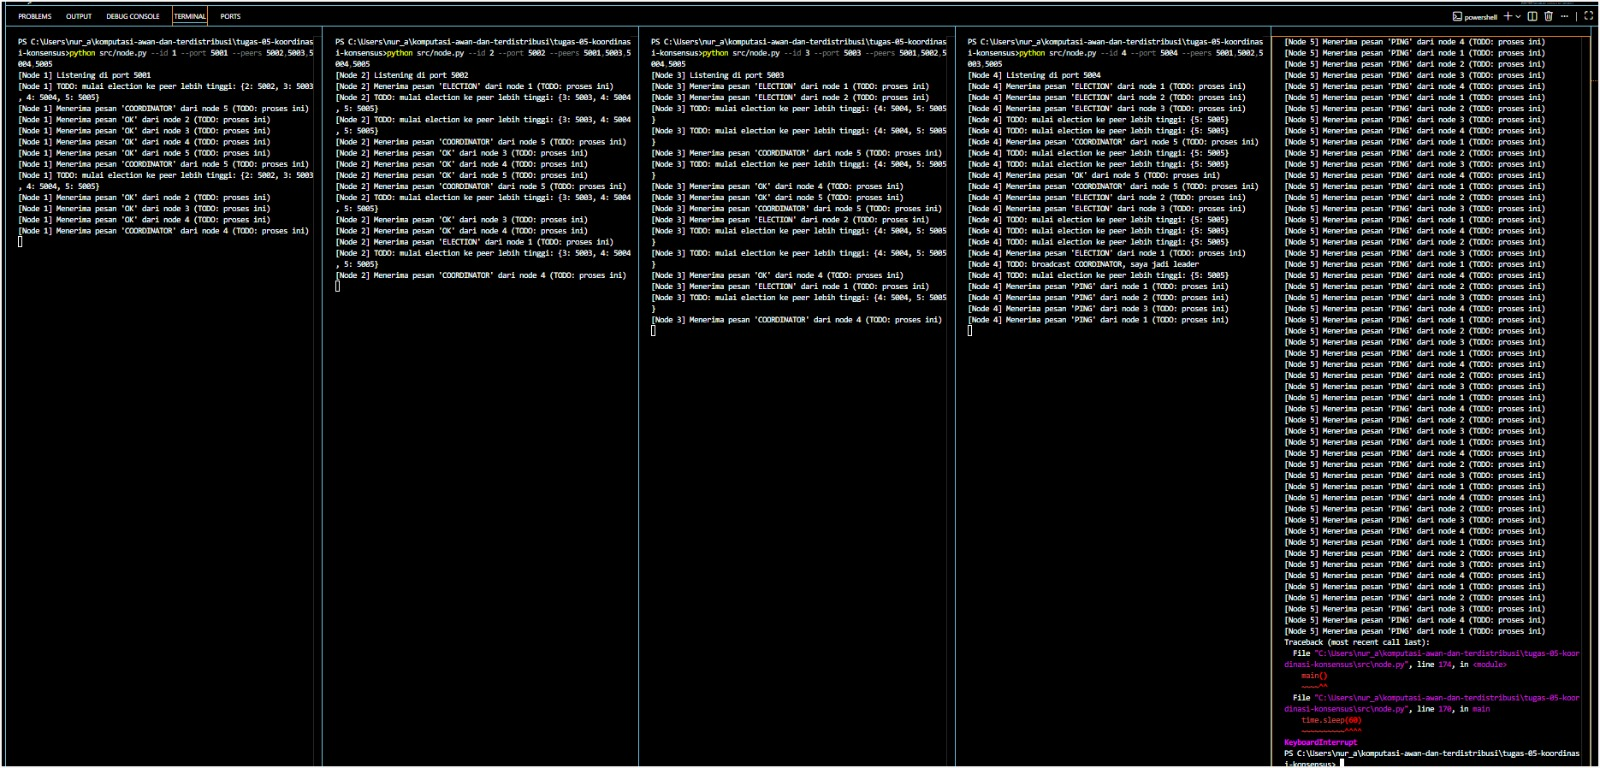
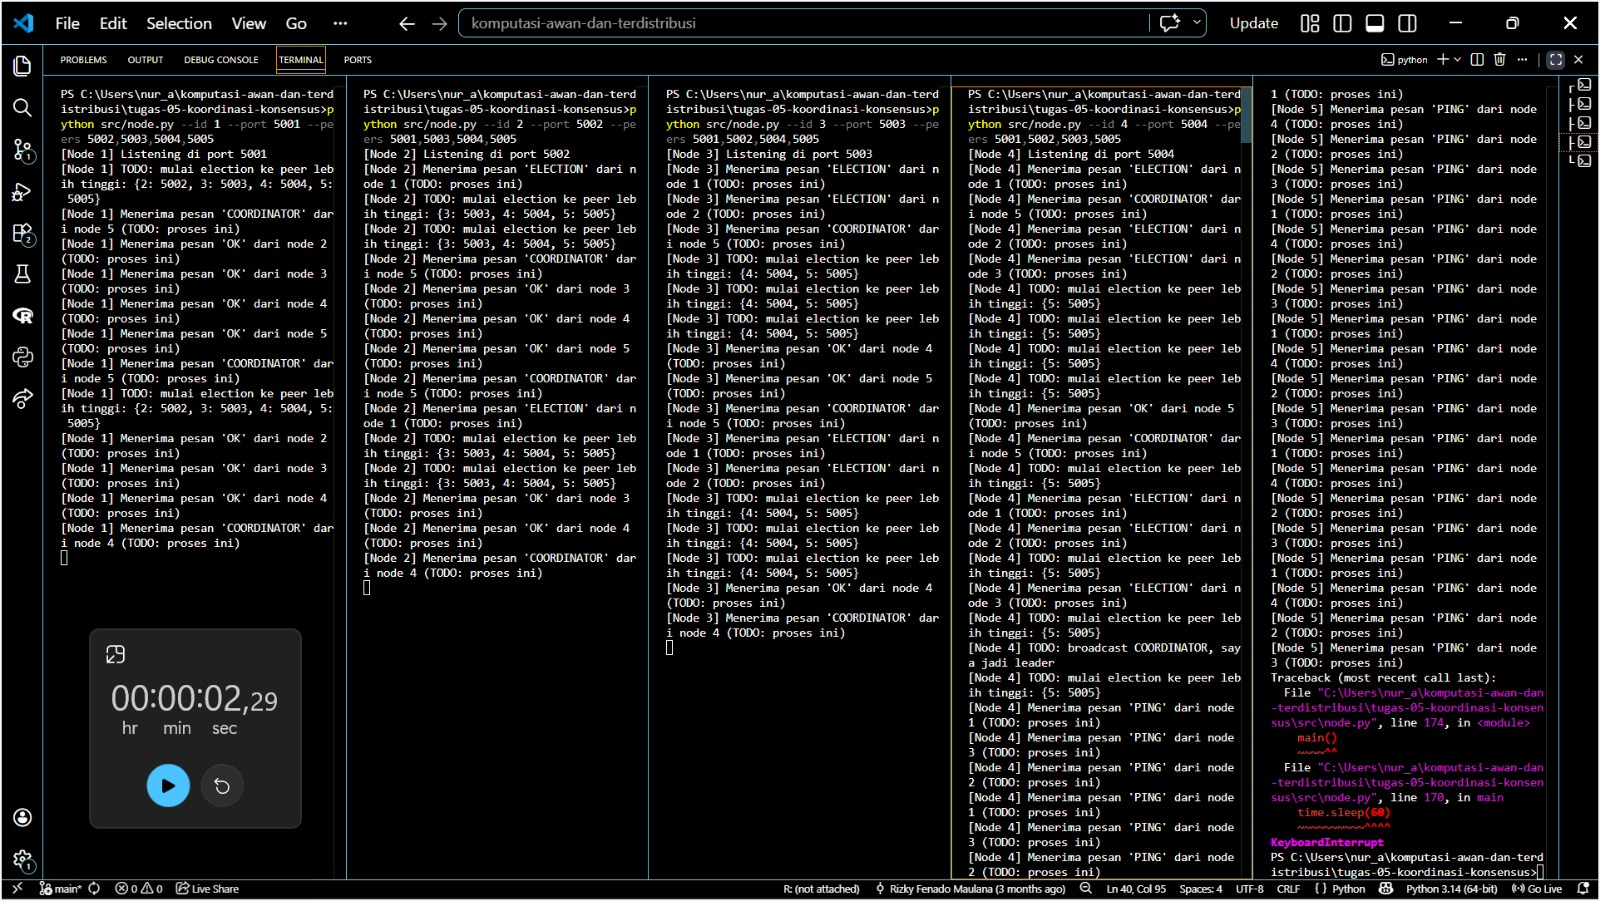
analisis

diff --git a/tugas-05-koordinasi-konsensus/README.md b/tugas-05-koordinasi-konsensus/README.md
@@ -36,6 +36,25 @@ python3 src/node.py --id 5 --port 5005 --peers 5001,5002,5003,5004
 2. **Leader mati**: matikan (Ctrl+C) proses node leader (node 5), amati node lain mendeteksi leader hilang dan memicu election baru. Catat leader baru yang terpilih (harusnya node 4).
 3. Simpan log terminal (screenshot atau `> log_nodeX.txt` redirect) dari kedua skenario ke folder `bukti/`.
 
+### JAWABAN KELOMPOK
+1. Mengapa Perlu Leader?
+Sistem FoodGo membutuhkan leader karena setiap server bisa memiliki waktu yang berbeda, sehingga urutan pesanan yang tercatat bisa tidak sama. Kondisi tersebut dapat menyebabkan konflik urutan dan pesanan diproses lebih dari satu kali. Dengan adanya leader, koordinasi antarserver dapat dilakukan dengan lebih teratur. Jika leader mati, node lain dapat memilih leader baru agar koordinasi sistem tetap berjalan.
+
+2. Analisis Mengapa Menggunakan Trade-off Bully Dibandingkan Raft?
+Bully Algorithm dipilih karena cara kerjanya sederhana dan mudah diterapkan pada lima node yang berjalan sebagai proses Python terpisah. Algoritma ini menentukan leader berdasarkan ID node, sehingga node dengan ID tertinggi yang masih aktif akan menjadi leader. Proses pemilihan dimulai ketika sebuah node baru dijalankan atau mendeteksi bahwa leader tidak merespons. Setelah itu, node tersebut mengirim pesan ELECTION kepada node dengan ID lebih tinggi. Jika ada node yang merespons dengan pesan OK, proses pemilihan akan dilanjutkan oleh node dengan ID lebih tinggi tersebut. Namun, jika tidak ada node dengan ID lebih tinggi yang merespons dalam batas waktu tertentu, node yang memulai pemilihan akan menjadi leader dan mengirim pesan COORDINATOR kepada node lainnya.
+
+Sementara itu, Raft memiliki mekanisme yang lebih kompleks karena menggunakan masa pemilihan (term), komunikasi antarnode, dan kesepakatan mayoritas untuk memilih leader serta menjaga konsistensi data. Oleh karena itu, Bully Algorithm lebih cocok untuk simulasi pada tugas ini karena lebih mudah dipahami dan diterapkan. Meskipun begitu, Raft memiliki mekanisme konsensus yang lebih lengkap untuk menjaga konsistensi data dalam sistem terdistribusi.
+
+3. Analisis Hasil Pengujian
+Skenario 1: Start Normal
+
+![Bukti Skenario 1 - Start Normal](bukti/skenario_1.jpeg)
+
+Skenario 2: Leader Mati
+
+![Bukti Skenario 2 - Leader Mati](bukti/skenario_2.jpeg)
+
+
 ## Struktur Submission
 
 ```
